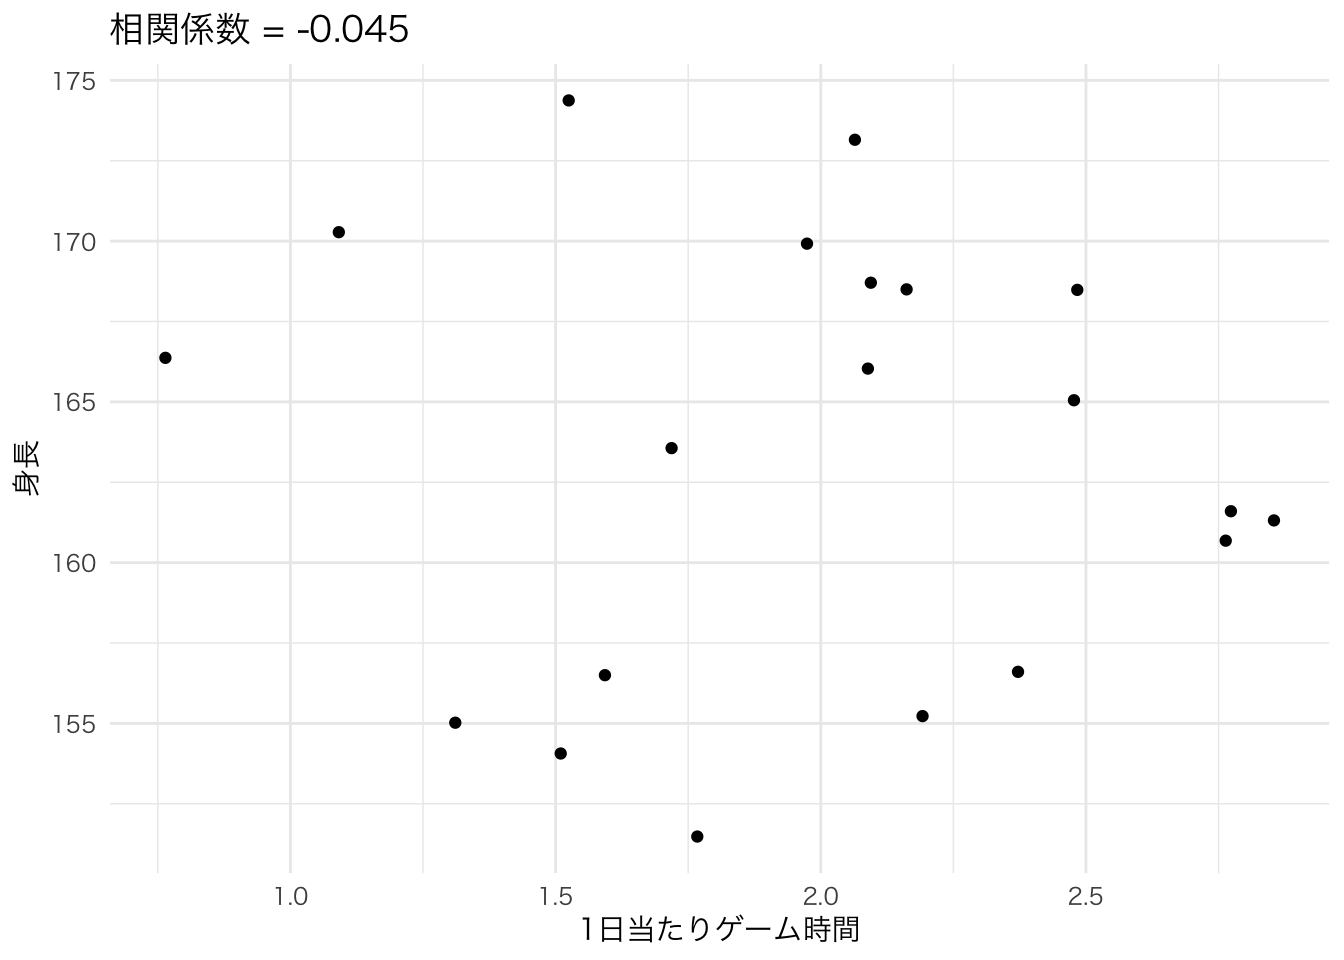
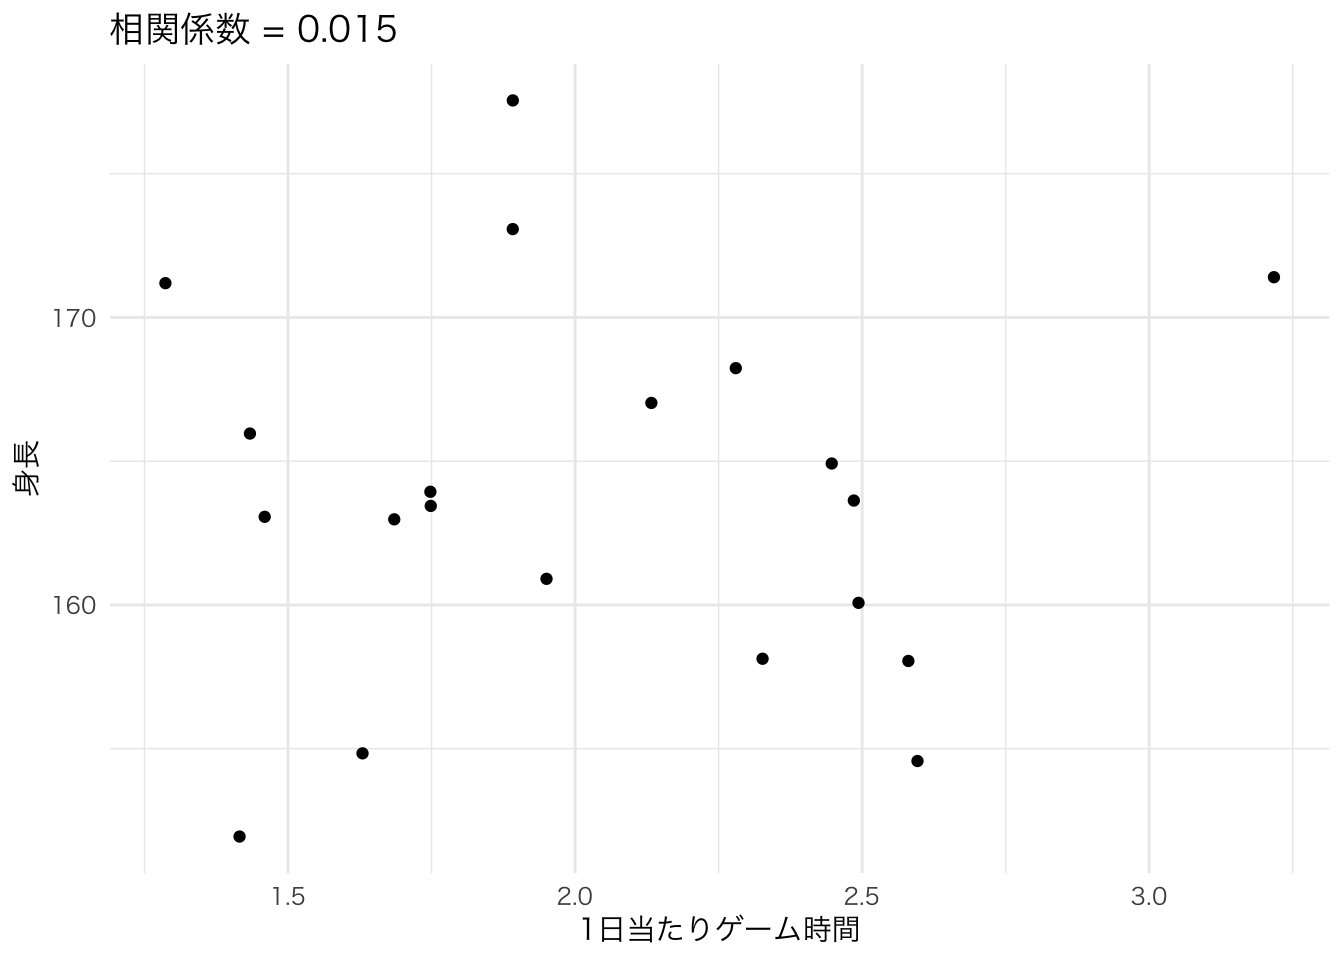
no message

diff --git a/oop_intro/index.html b/oop_intro/index.html
@@ -204,12 +204,25 @@ summary(Vector1)</code></pre>
 </div>
 <div id="oopとは" class="section level1">
 <h1>2. OOPとは</h1>
+<hr />
 </div>
 <div id="rにおけるoop" class="section level1">
 <h1>3. RにおけるOOP</h1>
+<div id="オブジェクトに任意のクラスを付ける" class="section level2">
+<h2>オブジェクトに任意のクラスを付ける</h2>
+<pre class="r"><code>関数名 &lt;- function(...) {
+  
+  ...
+  
+  class(返すオブジェクト名) &lt;- &quot;任意のクラス名&quot;
+  
+  返すオブジェクト名 # return(オブジェクト名) でもOK
+}</code></pre>
+<hr />
+</div>
 </div>
 <div id="とりあえず作ってみる" class="section level1">
-<h1>4. とりあえず作ってみる</h1>
+<h1>とりあえず作ってみる</h1>
 <p>ここでは2つのnumeric型ベクトルとそのベクトル名入力し、相関係数を求める<code>My_Cor()</code>関数を作ってみます。単に相関係数を求めるだけなら<code>cor()</code>や<code>cor.test()</code>があるので、いくつかの機能も追加してみましょう。</p>
 <pre><code>## ── Attaching packages ─────────────────────────────────────── tidyverse 1.3.1 ──</code></pre>
 <pre><code>## ✓ ggplot2 3.3.3     ✓ purrr   0.3.4
@@ -233,24 +246,24 @@ class(Cor_Obj)</code></pre>
 <pre class="r"><code>str(Cor_Obj)</code></pre>
 <pre><code>## List of 4
 ##  $ data    :&#39;data.frame&#39;:    20 obs. of  2 variables:
-##   ..$ x: num [1:20] 1.51 2.06 2.16 2.09 1.59 ...
-##   ..$ y: num [1:20] 154 173 168 169 156 ...
+##   ..$ x: num [1:20] 2.33 1.89 2.6 1.75 1.89 ...
+##   ..$ y: num [1:20] 158 173 155 164 178 ...
 ##  $ var_name: chr [1:2] &quot;1日当たりゲーム時間&quot; &quot;身長&quot;
-##  $ cor     : Named num -0.0455
+##  $ cor     : Named num 0.015
 ##   ..- attr(*, &quot;names&quot;)= chr &quot;cor&quot;
-##  $ cor_ci  : num [1:2] -0.478 0.405
+##  $ cor_ci  : num [1:2] -0.43 0.455
 ##   ..- attr(*, &quot;conf.level&quot;)= num 0.95
 ##  - attr(*, &quot;class&quot;)= chr &quot;My_Cor_Object&quot;</code></pre>
 <p><code>Cor_Obj</code>には元のデータがデータフレームとして格納され（<code>$data</code>）、それぞれの変数名（<code>$var_name</code>）、相関係数（<code>$cor</code>）、相関係数の95%信頼区間（<code>$cor_ci</code>）が<code>Cor_Obj</code>の中に入っています。本質的にはリスト型のデータ構造ですが、クラス名が<code>My_Cor_Object</code>になっているだけです。</p>
 <p>この<code>My_Cor_Object</code>クラスには3つのメソッド（専用関数）が用意されており、<code>print()</code>、<code>summary()</code>、<code>plot()</code>です。<code>print()</code>と<code>summary()</code>は同じ関数で、<code>x</code>と<code>y</code>の平均値、そして相関係数と信頼区間を出力します。<code>plot()</code>は散布図と相関係数を出力します。実際の例を見てみましょう。</p>
 <pre class="r"><code>print(Cor_Obj)</code></pre>
-<pre><code>## 1日当たりゲーム時間の平均値: 1.979
-## 身長の平均値: 163.346
-## 相関係数: -0.045 [-0.478, 0.405]</code></pre>
+<pre><code>## 1日当たりゲーム時間の平均値: 2.035
+## 身長の平均値: 163.746
+## 相関係数: 0.015 [-0.430, 0.455]</code></pre>
 <pre class="r"><code>summary(Cor_Obj) # summary()はprint()と同じ</code></pre>
-<pre><code>## 1日当たりゲーム時間の平均値: 1.979
-## 身長の平均値: 163.346
-## 相関係数: -0.045 [-0.478, 0.405]</code></pre>
+<pre><code>## 1日当たりゲーム時間の平均値: 2.035
+## 身長の平均値: 163.746
+## 相関係数: 0.015 [-0.430, 0.455]</code></pre>
 <pre class="r"><code>plot(Cor_Obj)</code></pre>
 <p><img src="/oop_intro_files/figure-html/unnamed-chunk-8-1.png" width="672" /></p>
 <p>既存の<code>cor.test()</code>で作成される<code>"htest"</code>クラスに比べ、<code>"My_Cor_Object"</code>クラスは各変数の平均値が名前と一緒に表示され、<code>plot()</code>で簡単に散布図が作成できる大変便利なクラスです。それでは一つずつ作っていきましょう。まずは、<code>"My_Cor_Object"</code>クラスのオブジェクトを作成する<code>My_Cor()</code>関数からです。</p>
